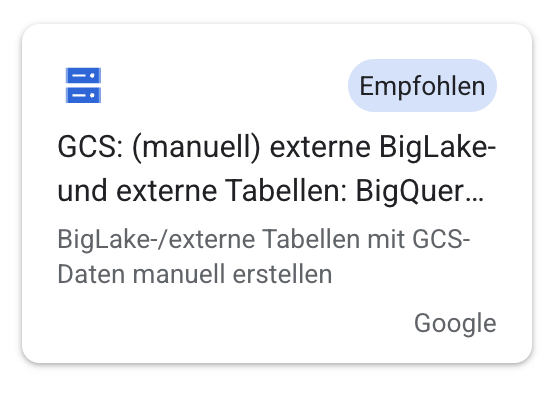
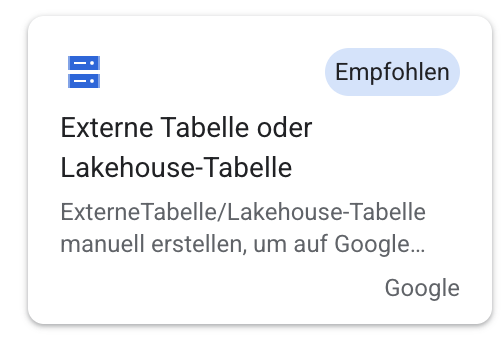
fix: reorder pubsub lab after bigquery, adjust numbering
Move pubsub from lab 15 to 13 (after bigquery labs),
shift cloud-build to 14 and vertex-ai to 15.

diff --git a/labs/11-bigquery-console/README.md b/labs/11-bigquery-console/README.md
@@ -31,9 +31,11 @@ Wähle den manuellen, externen Import
 
 ---
 
-Wähle den Bucket und die Datei aus. Erstelle über das Menü ein Dataset namens
-"myds" und eine Tabelle namens "customers".
-Das Dataset muss in der EU liegen!
+Wähle den Bucket und die Datei aus. 
+
+Erstelle über das Menü ein Dataset namens "myds" und eine Tabelle namens "customers".
+
+**Das Dataset muss in der EU liegen!**
 
 ![img.png](images/004-form.png)
 

diff --git a/labs/13-pubsub/README.md b/labs/13-pubsub/README.md
@@ -1,4 +1,4 @@
-# 07 - Pub/Sub: Dead-Letter, Push und BigQuery-Subscription (CLI)
+# 13 - Pub/Sub: Dead-Letter, Push und BigQuery-Subscription (CLI)
 
 In dieser Aufgabe üben Sie den Umgang mit der `gcloud`-CLI für Google Cloud
 Pub/Sub. Sie erstellen ein Topic, eine Pull-Subscription mit Dead-Letter-Topic,

diff --git a/labs/14-cloud-build/README.md b/labs/14-cloud-build/README.md
@@ -1,4 +1,4 @@
-# 13 - Build und Deployment mit Cloud Build
+# 14 - Build und Deployment mit Cloud Build
 
 Mit dieser Anleitung lernst du, wie man eine einfache Python-Anwendung per
 Docker containerisiert, mit Google Cloud Build automatisiert baut und

diff --git a/labs/15-vertex-ai/README.md b/labs/15-vertex-ai/README.md
@@ -1,4 +1,4 @@
-# 14 - Videogenerierung mit Vertex AI
+# 15 - Videogenerierung mit Vertex AI
 
 In dieser Übungsaufgabe werden Sie ein Python-Skript erstellen, welches mit dem
 Veo 3-Modell von Vertex AI beliebige Videos generieren kann.
